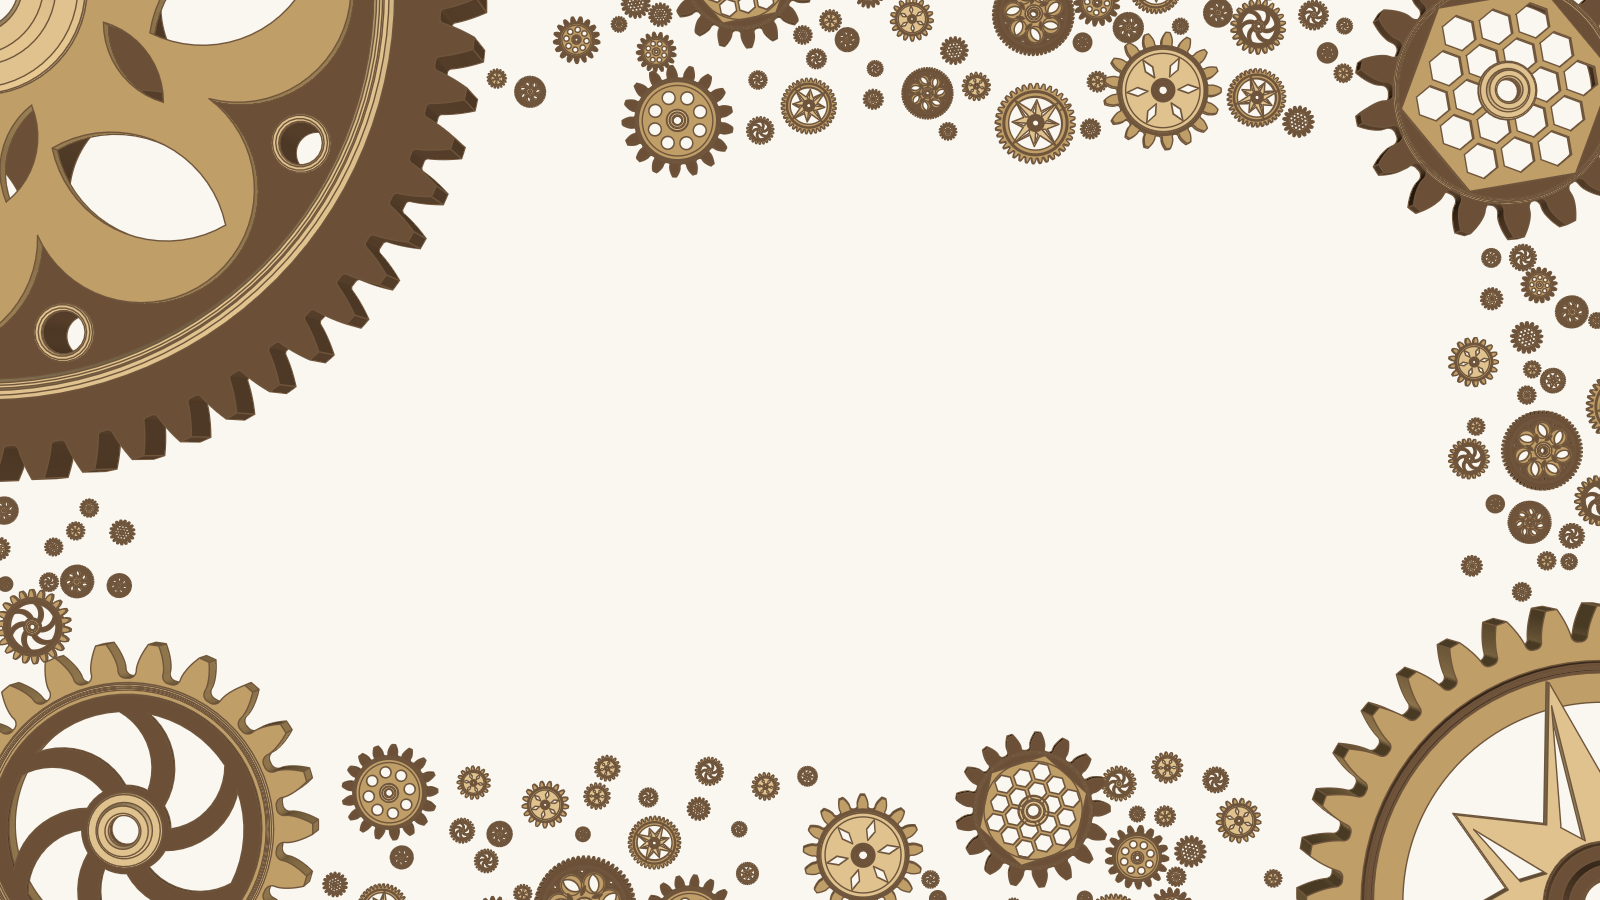
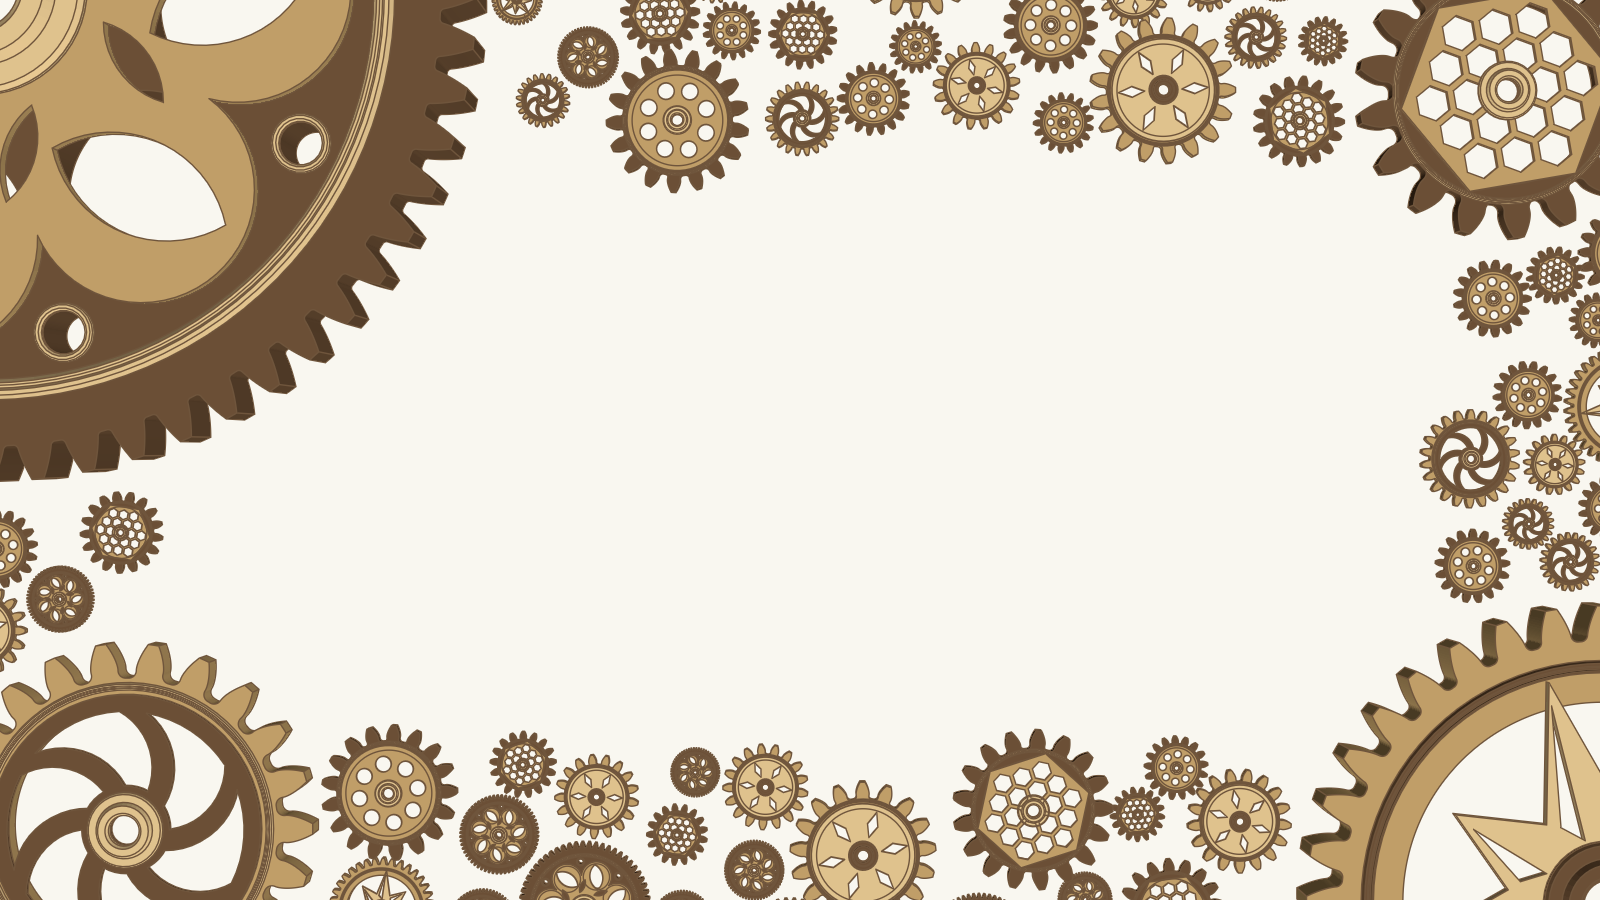
increase gear coverage along hero border

diff --git a/tools/render/ornamental_gears.go b/tools/render/ornamental_gears.go
@@ -93,8 +93,8 @@ func borderGears(wheels []ornamentalWheel, templates [][]solidlens.Model) ([]sol
 	rng := rand.New(rand.NewSource(41))
 	var gears []borderGear
 	// Keep a seeded layout so regeneration produces the same image.
-	for attempts := 0; len(gears) < 150 && attempts < 50000; attempts++ {
-		gear := borderGear{radius: .9 + 8.4*math.Pow(rng.Float64(), 1.8), angle: 2 * math.Pi * rng.Float64(), style: rng.Intn(len(templates))}
+	for attempts := 0; len(gears) < 90 && attempts < 50000; attempts++ {
+		gear := borderGear{radius: 2.8 + 6.6*math.Pow(rng.Float64(), .8), angle: 2 * math.Pi * rng.Float64(), style: rng.Intn(len(templates))}
 		switch rng.Intn(4) {
 		case 0:
 			gear.x, gear.y = -96+206*rng.Float64(), 32+24*rng.Float64()
@@ -113,7 +113,7 @@ func borderGears(wheels []ornamentalWheel, templates [][]solidlens.Model) ([]sol
 			}
 		}
 		for _, other := range gears {
-			if math.Hypot(gear.x-other.x, gear.y-other.y) < gear.radius+other.radius+.4 {
+			if math.Hypot(gear.x-other.x, gear.y-other.y) < gear.radius+other.radius+.8 {
 				clear = false
 				break
 			}
